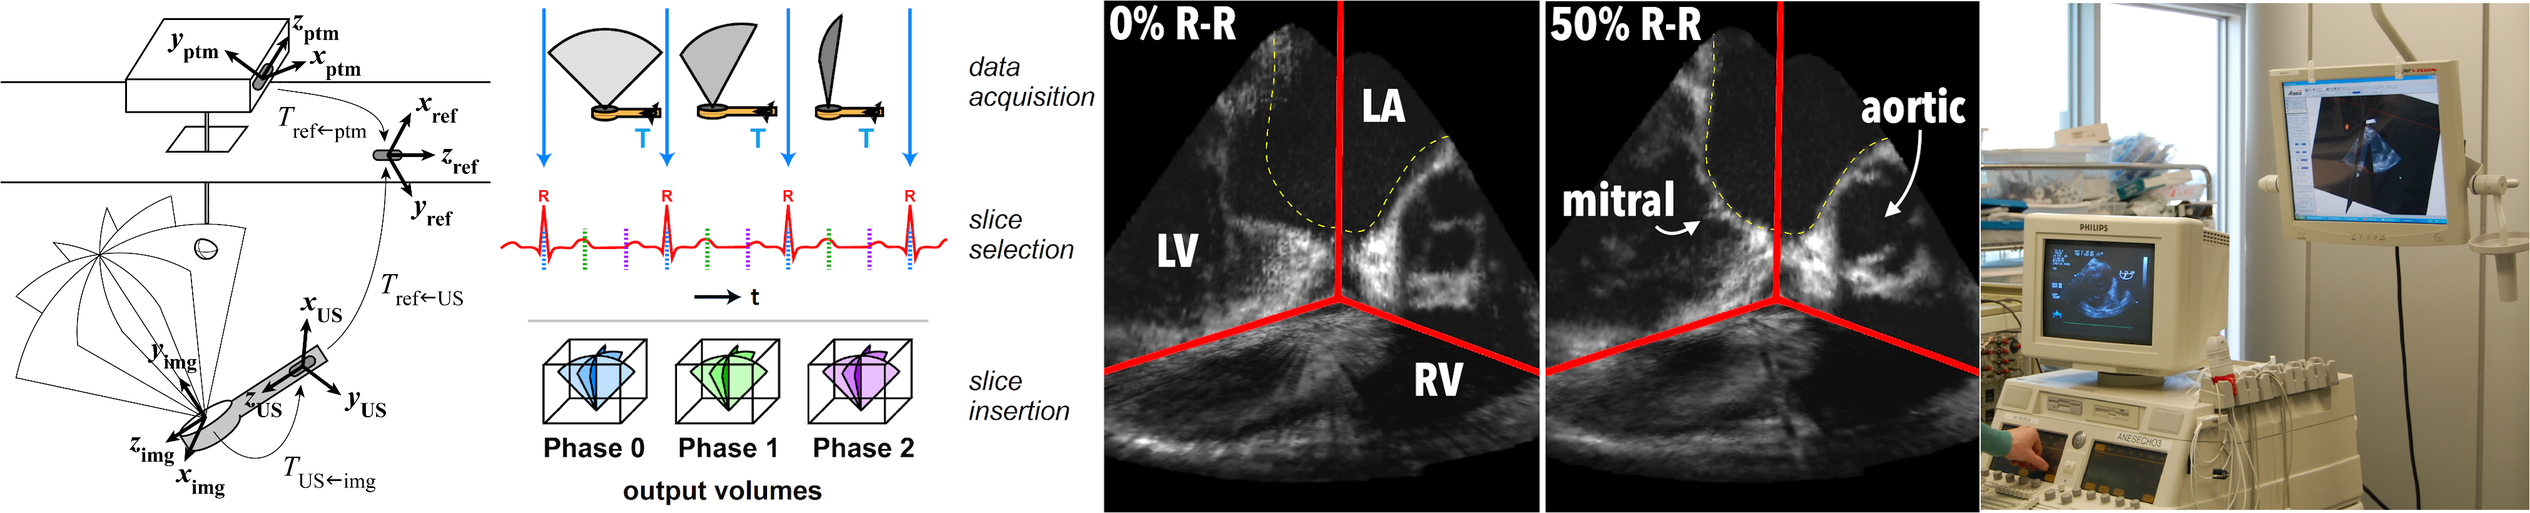
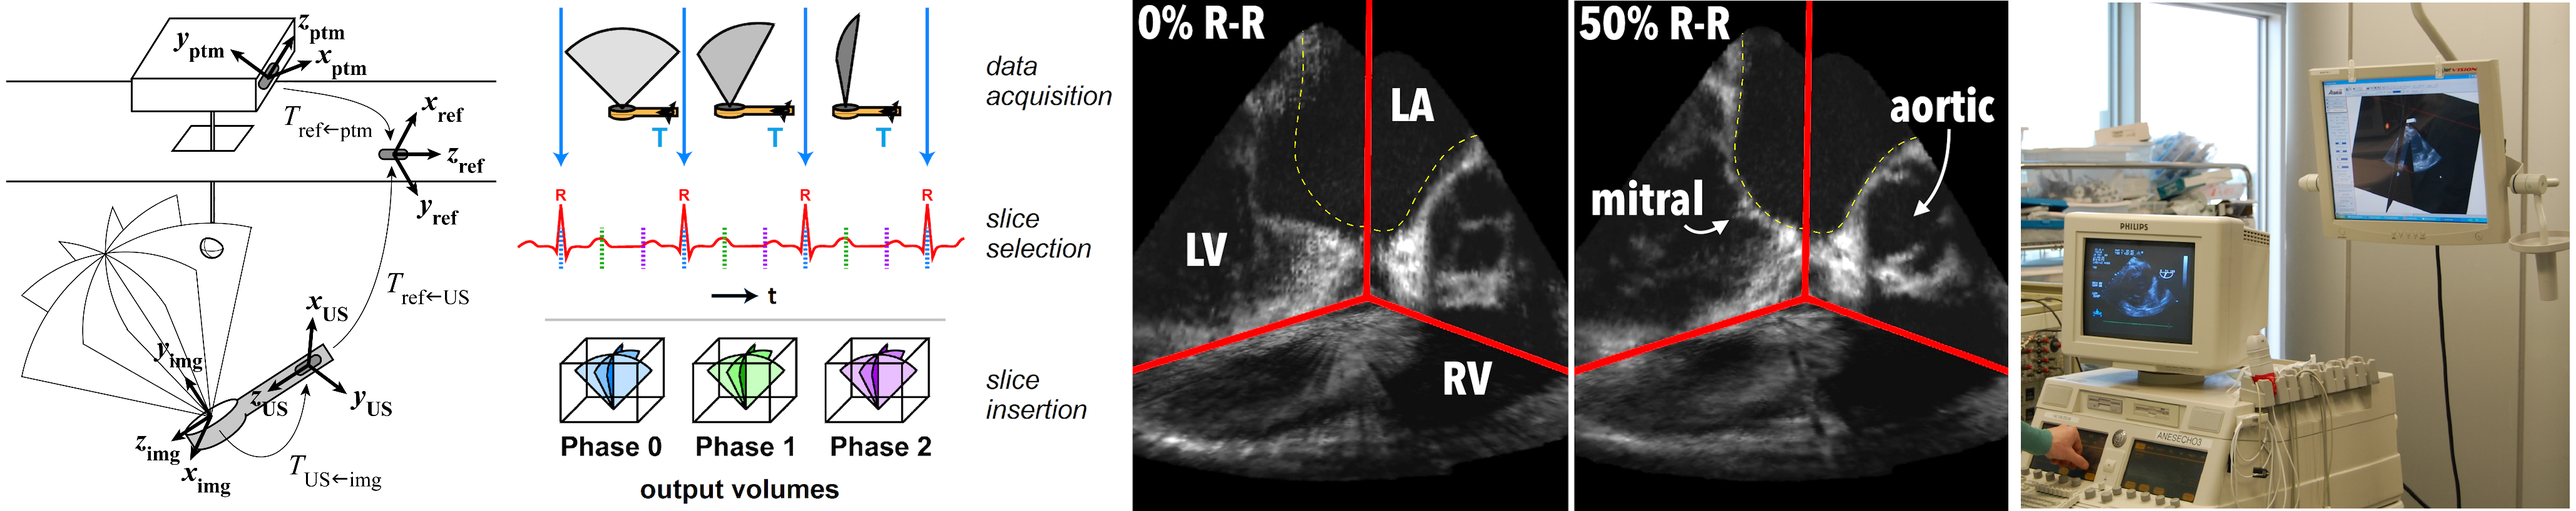
Fixup montage of uwo:
montage uwo_tforms.png uwo_acquisition.png uwo_porcine.png uwo_process.png -tile 4x1 -geometry +10+0 uwo.png

diff --git a/_pages/research.html b/_pages/research.html
@@ -38,12 +38,9 @@ At Kitware with <a href="http://www.aylward.org/home" target="_blank">Stephen Ay
 
 At the University of Western Ontario with <a href="http://www.imaging.robarts.ca/petergrp/" target="_blank">Terry Peters</a>.
 
-<figure class="half">
-    <img src="{{ '/assets/images/heartVariability.png' | relative_url }}"></a>
-    <img src="{{ '/assets/images/heartVariability.png' | relative_url }}"></a>
+<figure>
+    <img src="{{ '/assets/images/uwo.png' | relative_url }}"></a>
 </figure>
-
-
 
 
 
